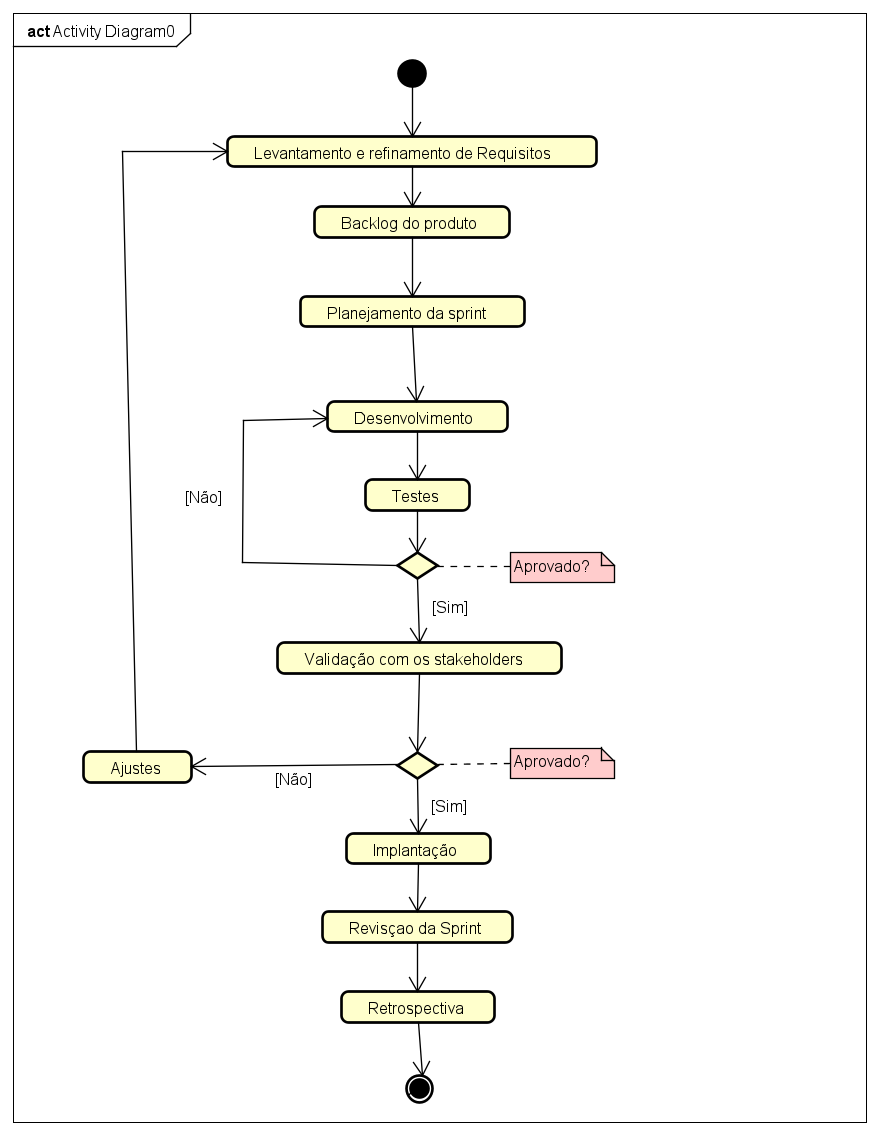
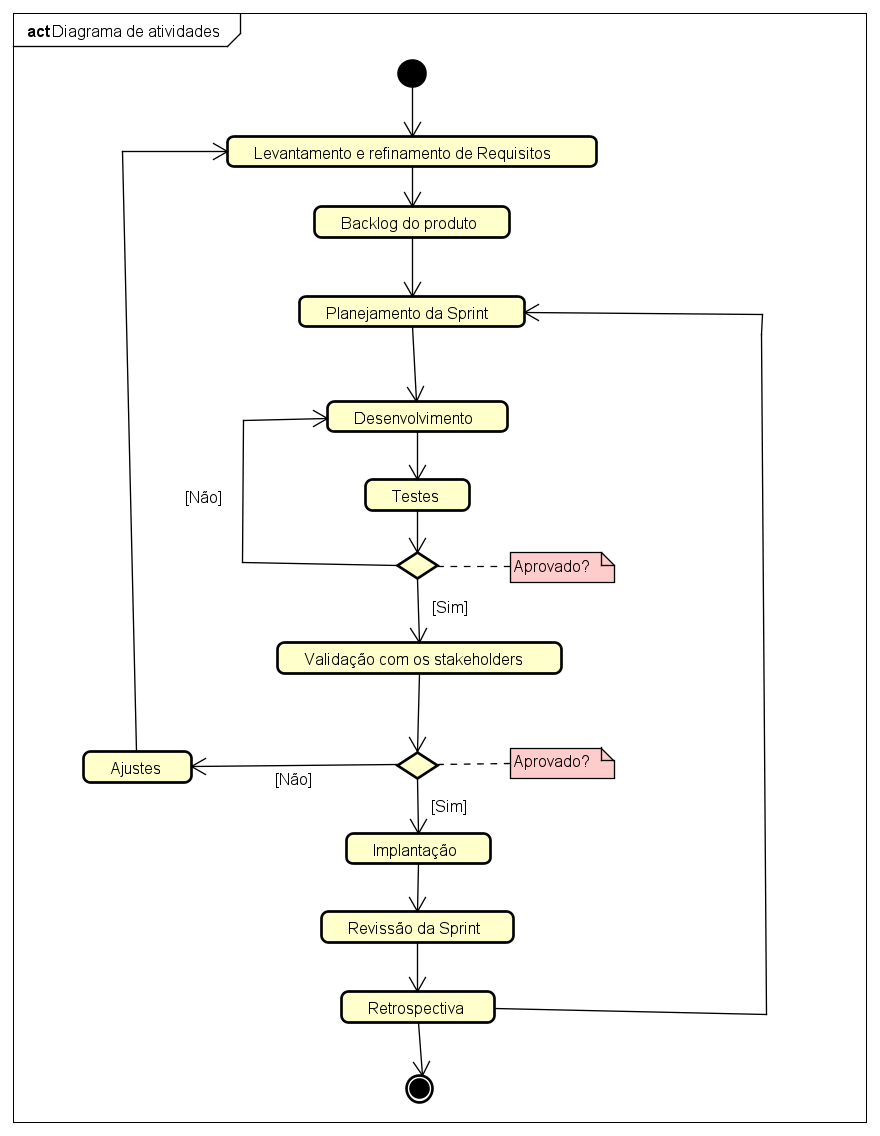
ajuste do diagrama

diff --git a/index.html b/index.html
@@ -81,7 +81,7 @@
             <div class="card">
                 <h3>3. Planejamento da Sprint</h3>
                 <p>
-                    A equipe se reúne para analisar o topo do Backlog do Produto, que já foi previamente definido e priorizado pelo Product Owner. Com base na meta estabelecida pelo PO, o time de desenvolvimento seleciona quais itens tem capacidade de entregar no ciclo atual (Sprint) e planeja como a execução técnica será realizada.
+                    A equipe se reúne para analisar o topo do Backlog do Produto, que já foi previamente definido e priorizado pelo gerente de projeto. Com base na meta estabelecida pelo gerente, o time de desenvolvimento seleciona quais itens tem capacidade de entregar no ciclo atual (Sprint) e planeja como a execução técnica será realizada.
                 </p>
             </div>
 